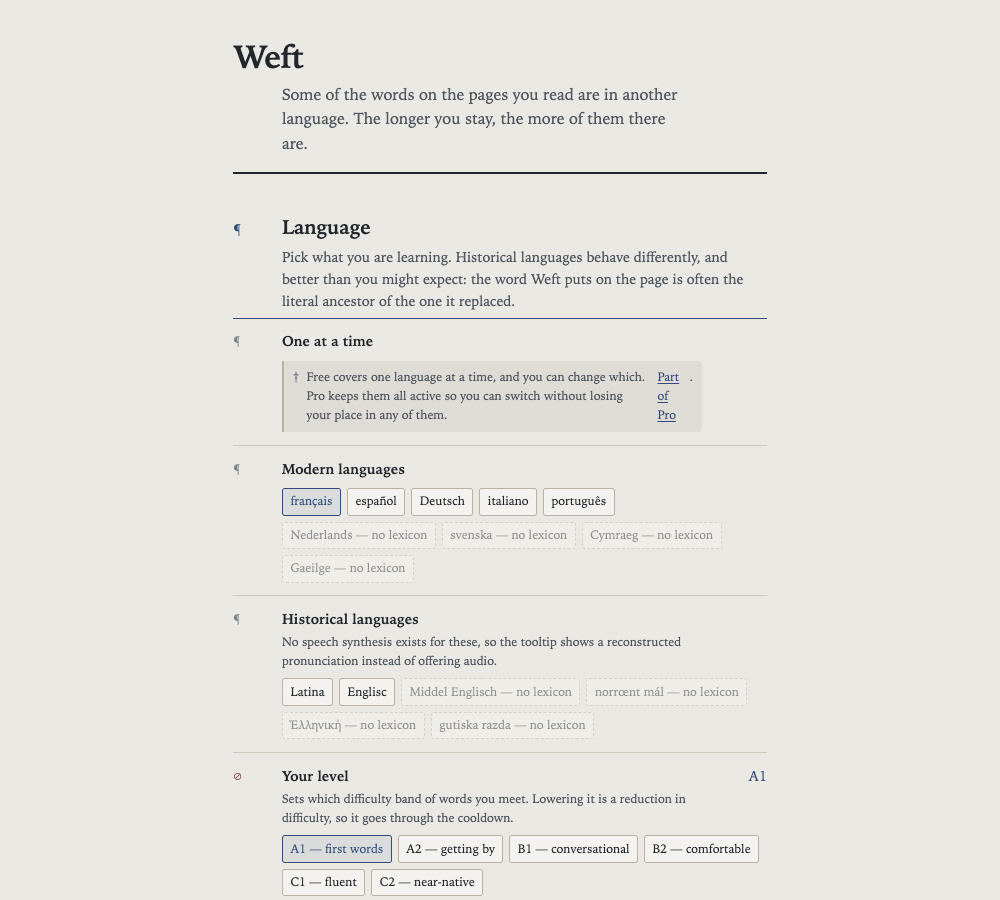
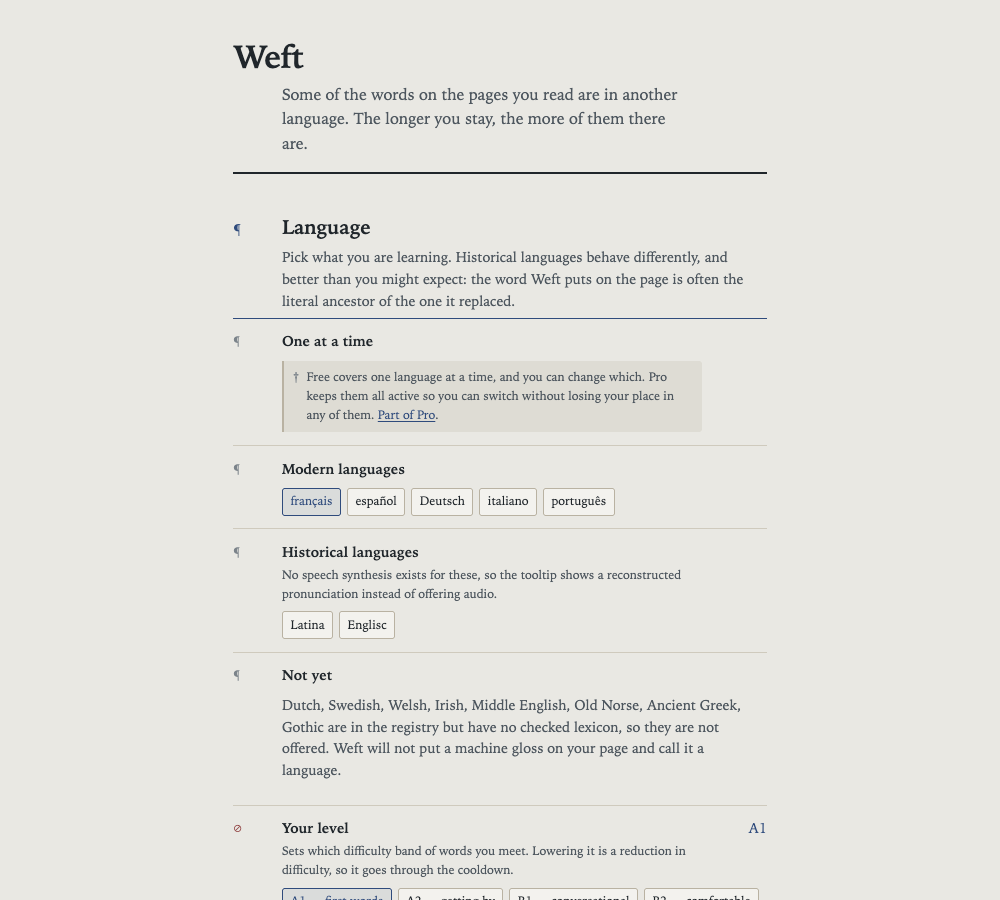
"Part of Pro" was rendering as a narrow column on every locked row
Two problems on the settings page, both found by looking at the rendered
screen rather than the source.

**The locked-feature rows were laid out wrongly.** `.locked` is a flex
container and the message was loose inline content, so the text, the
"Part of Pro" link and the full stop each became a separate flex item. The
link collapsed to a narrow column reading "Part / of / Pro" with a stray
period beside it. It appears on every locked row, which for a free reader
is most of this page, and the markup looked entirely reasonable — only the
layout was wrong.

Wrapping the message in one element fixes it, and the guard measures rather
than inspects markup: the link's rendered box must be under 30px tall and
wider than it is tall. Removing the fix fails it with "the Pro link is 57px
tall, so it has wrapped into a column".

**The unavailable languages were still listed here.** The previous commit
only fixed onboarding, so settings still showed all eight greyed out. Same
treatment, plus a "Not yet" row that names them and says why rather than
leaving eight dead chips to imply an unfinished product.

Worth naming the pattern, because it is this codebase's characteristic
failure: `idle`, `isFirefox`, `var(--ink-2)`, the unreachable exclusion
patterns and now this are all declarations that read correctly and did
nothing. None would have been caught by reading the code more carefully.
They were caught by running it, looking at it, or measuring it.
[…]

diff --git a/src/ui/options/sections.tsx b/src/ui/options/sections.tsx
@@ -76,15 +76,23 @@ export function LanguageSection({ c, settings }: { c: Controller; settings: Sett
    * chips carry their availability and the unavailable ones cannot be chosen.
    */
   const chipsFor = (languages: ReturnType<typeof modernLanguages>) =>
-    languages.map((l) => {
-      const availability = availabilityFor(index, source, l.code, providers);
-      return {
+    languages
+      // Hidden rather than disabled, matching onboarding. Eight of the
+      // fifteen registered languages have no lexicon, so listing them all
+      // greyed out made both the first-run screen and this page look
+      // mostly broken in exchange for advertising languages nobody can
+      // pick. What is missing is said once, below.
+      .filter((l) => availabilityFor(index, source, l.code, providers).kind !== 'unavailable')
+      .map((l) => ({
         id: l.code,
-        label: availability.kind === 'unavailable' ? `${l.endonym} — no lexicon` : l.endonym,
-        title: `${l.name}${l.era ? `, ${l.era}` : ''}. ${availabilityNote(availability, l.name)}`,
-        disabled: availability.kind === 'unavailable',
-      };
-    });
+        label: l.endonym,
+        title: `${l.name}${l.era ? `, ${l.era}` : ''}`,
+      }));
+
+  /** Registered but unshippable, for the one honest line about them. */
+  const notYet = [...modernLanguages(), ...historicalLanguages()].filter(
+    (l) => availabilityFor(index, source, l.code, providers).kind === 'unavailable',
+  );
 
   const activeAvailability = availabilityFor(index, source, target, providers);
 
@@ -127,6 +135,16 @@ export function LanguageSection({ c, settings }: { c: Controller; settings: Sett
           onToggle={(id) => void c.setMany({ 'learning.activeTarget': id, 'learning.targetLangs': [id] })}
         />
       </Row>
+
+      {notYet.length ? (
+        <Row siglum={SIGLA.tongue} title="Not yet">
+          <p class="muted">
+            {notYet.map((l) => l.name).join(', ')} are in the registry but have no checked
+            lexicon, so they are not offered. Weft will not put a machine gloss on your page and
+            call it a language.
+          </p>
+        </Row>
+      ) : null}
 
       {meta.historical ? (
         <Row

diff --git a/tests/e2e/friction.spec.ts b/tests/e2e/friction.spec.ts
@@ -556,3 +556,37 @@ test.describe('the progress page before you have done anything', () => {
     await page.close();
   });
 });
+
+test.describe('the locked-feature rows', () => {
+  /*
+   * `.locked` is a flex container, and the message used to be loose inline
+   * content: the text, the "Part of Pro" link and the full stop each became
+   * their own flex item. The link collapsed into a narrow column reading
+   * "Part / of / Pro" with a stray period beside it — on every locked row,
+   * which for a free reader is most of the settings page.
+   *
+   * Measured rather than eyeballed, because the markup looked entirely
+   * reasonable and only the layout was wrong.
+   */
+  test('the Pro link reads as one line, not a narrow column', async ({ context, extensionId }) => {
+    const page = await context.newPage();
+    await page.setViewportSize({ width: 1000, height: 900 });
+    await page.goto(`chrome-extension://${extensionId}/options.html`);
+
+    const link = page.locator('.locked a').first();
+    await expect(link).toBeVisible({ timeout: 10_000 });
+
+    const box = await link.boundingBox();
+    expect(box, 'the Pro link has no box').not.toBeNull();
+
+    // One line of 13px text is ~16-20px tall. Three stacked lines is ~50px.
+    expect(
+      box!.height,
+      `the Pro link is ${Math.round(box!.height)}px tall, so it has wrapped into a column`,
+    ).toBeLessThan(30);
+    // And it should be wider than it is tall — "Part of Pro" on one line.
+    expect(box!.width).toBeGreaterThan(box!.height);
+
+    await page.close();
+  });
+});

diff --git a/src/ui/options/pro.tsx b/src/ui/options/pro.tsx
@@ -160,11 +160,21 @@ export function Locked({ feature }: { feature: Feature }) {
       <span class="locked__mark" aria-hidden="true">
         {SIGLA.leaf}
       </span>
-      {info.detail}{' '}
-      <a href={PRICING_URL} target="_blank" rel="noreferrer">
-        Part of Pro
-      </a>
-      .
+      {/*
+        One element for the whole message, because .locked is a flex
+        container: without this every inline piece — the text, the link, the
+        full stop — becomes its own flex item, and the link collapses into a
+        narrow column reading "Part / of / Pro" with a stray period beside
+        it. Visible on every locked row, which for a free reader is most of
+        this page.
+      */}
+      <span class="locked__body">
+        {info.detail}{' '}
+        <a href={PRICING_URL} target="_blank" rel="noreferrer">
+          Part of Pro
+        </a>
+        .
+      </span>
     </p>
   );
 }

diff --git a/src/ui/theme.css b/src/ui/theme.css
@@ -816,6 +816,12 @@ input[type='range'] {
   flex: none;
 }
 
+/* min-width:0 so a long word can wrap instead of forcing the row wider than
+   its measure — the default min-width:auto on a flex item refuses to. */
+.locked__body {
+  min-width: 0;
+}
+
 .pro__list {
   list-style: none;
   margin: 0;
